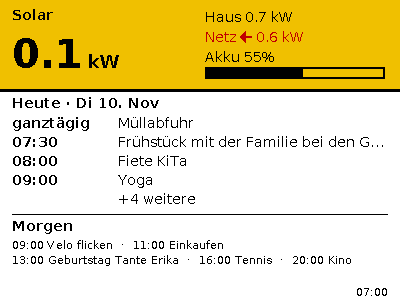
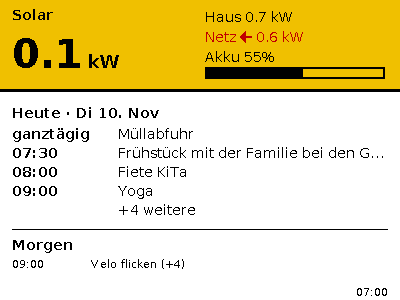
feat(render): tomorrow events one per line, more vertical padding

Changed region(s): [[0.03, 0.33, 0.96, 0.9], [0.75, 0.84, 0.81, 0.9], [0.84, 0.84, 0.87, 0.9]]

diff --git a/lib/core/src/render.cpp b/lib/core/src/render.cpp
@@ -9,6 +9,7 @@ namespace {
 constexpr int kMargin = 12;
 constexpr int kMaxToday = 5;
 constexpr int kBannerH = 92;  // top of the calendar area (24 px warning bar + 68 px compact banner = same)
+constexpr int kCalendarBottom = 282;  // last baseline above the footer (updated time at 296)
 
 // 12x12 arrow; dir 0=right 1=left 2=up 3=down. (x, y) is the top-left.
 void arrow(Canvas& c, int x, int y, int dir, Color col) {
@@ -125,41 +126,45 @@ int drawToday(Canvas& c, const View& v, int y, int maxLines) {
     return y;
 }
 
-// Condensed tomorrow list over up to maxLines Small lines.
-void drawTomorrow(Canvas& c, const View& v, int y, int maxLines, int pitch) {
-    const int maxW = Canvas::W - 2 * kMargin;
+// Tomorrow: one event per line (Small font, time column) while lines fit above
+// `bottom` (last baseline); overflow ends with "+N weitere".
+void drawTomorrow(Canvas& c, const View& v, int y, int bottom, int pitch) {
     if (v.tomorrow.empty()) {
         drawText(c, kMargin, y, Font::Small, "keine Termine", Color::Black);
         return;
     }
-    std::string line;
-    int used = 0;
-    for (size_t i = 0; i < v.tomorrow.size(); i++) {
+    const int titleX = kMargin + 80;
+    const int titleW = Canvas::W - titleX - kMargin;
+    int fit = (bottom - y) / pitch + 1;
+    if (fit < 1) fit = 1;
+    int n = static_cast<int>(v.tomorrow.size());
+    int shown = n <= fit ? n : (fit > 1 ? fit - 1 : 1);
+    bool suffix = shown < n && shown == fit;  // no spare line: append "+N" to the last title
+    for (int i = 0; i < shown; i++) {
         const EventLine& e = v.tomorrow[i];
-        std::string item = e.time == "ganztägig" ? e.title : e.time + " " + e.title;
-        std::string cand = line.empty() ? item : line + "  ·  " + item;
-        if (!line.empty() && textWidth(Font::Small, cand.c_str()) > maxW) {
-            drawText(c, kMargin, y + used * pitch, Font::Small, line.c_str(), Color::Black, maxW);
-            used++;
-            line.clear();
-            cand = item;
-            if (used >= maxLines) return;
-        }
-        line = cand;
+        std::string title = e.title;
+        if (suffix && i == shown - 1) title += " (+" + std::to_string(n - shown) + ")";
+        drawText(c, kMargin, y, Font::Small, e.time.c_str(), Color::Black, titleX - kMargin - 6);
+        drawText(c, titleX, y, Font::Small, title.c_str(), Color::Black, titleW);
+        y += pitch;
     }
-    if (!line.empty() && used < maxLines) drawText(c, kMargin, y + used * pitch, Font::Small, line.c_str(), Color::Black, maxW);
+    if (shown < n && !suffix) {
+        char b[24];
+        snprintf(b, sizeof b, "+%d weitere", n - shown);
+        drawText(c, titleX, y, Font::Small, b, Color::Black);
+    }
 }
 
-void drawCalendar(Canvas& c, const View& v, int top, int maxToday, int tomorrowLines) {
-    int hb = top + 16;
+void drawCalendar(Canvas& c, const View& v, int top) {
+    int hb = top + 26;  // 10 px more air below the banner
     std::string head = v.todayLabel;
     if (!v.headerDate.empty()) head += " · " + v.headerDate;
     drawText(c, kMargin, hb, Font::BodyBold, head.c_str(), Color::Black);
-    int y = drawToday(c, v, hb + 20, maxToday);
-    int sep = y - 19 + 10;
+    int y = drawToday(c, v, hb + 21, kMaxToday);
+    int sep = y - 19 + 14;
     c.hline(kMargin, sep, Canvas::W - 2 * kMargin, Color::Black);
-    drawText(c, kMargin, sep + 17, Font::BodyBold, v.tomorrowLabel.c_str(), Color::Black);
-    drawTomorrow(c, v, sep + 35, tomorrowLines, 15);
+    drawText(c, kMargin, sep + 21, Font::BodyBold, v.tomorrowLabel.c_str(), Color::Black);
+    drawTomorrow(c, v, sep + 39, kCalendarBottom, 15);
 }
 }  // namespace
 
@@ -177,7 +182,7 @@ void renderDay(Canvas& c, const View& v) {
         top = 24;
     }
     drawBanner(c, v, top, v.warnPanelBattery);
-    drawCalendar(c, v, kBannerH, kMaxToday, 3);
+    drawCalendar(c, v, kBannerH);
     if (v.dataStale)
         put(c, kMargin, 296, Font::Small, "Daten veraltet · " + v.staleText, Color::Red, 250);
     int w = textWidth(Font::Small, v.updatedAt.c_str());
@@ -198,7 +203,7 @@ void renderNight(Canvas& c, const View& v) {
     int mid = top + (bh - 3) / 2;
     drawText(c, kMargin, mid + 14, Font::Huge, "Gute Nacht", Color::Black, 270);
     cat::draw(c, Canvas::W - kMargin - cat::W, mid - cat::H / 2);
-    drawCalendar(c, v, kBannerH, kMaxToday, 3);
+    drawCalendar(c, v, kBannerH);
 }
 
 void renderChargeMe(Canvas& c) {

diff --git a/test/test_render/test_main.cpp b/test/test_render/test_main.cpp
@@ -31,6 +31,39 @@ static int count(const Canvas& c, Color col) {
     return n;
 }
 
+// Lowest row with black pixels left of the footer timestamp (x < 300).
+static int lowestInk(const Canvas& c) {
+    for (int y = Canvas::H - 1; y >= 0; y--)
+        for (int x = 0; x < 300; x++)
+            if (c.get(x, y) == Color::Black) return y;
+    return -1;
+}
+
+void test_tomorrow_events_stack_vertically() {
+    static uint8_t buf[Canvas::kBytes];
+    Canvas c(buf);
+    View one = dayView();
+    one.tomorrow = {{"07:00", "KiTa geschlossen"}};
+    renderDay(c, one);
+    int y1 = lowestInk(c);
+    View two = one;
+    two.tomorrow.push_back({"13:30", "Putzfrau"});
+    renderDay(c, two);
+    int y2 = lowestInk(c);
+    TEST_ASSERT_GREATER_OR_EQUAL(12, y2 - y1);  // second event on its own line
+    TEST_ASSERT_LESS_THAN(286, y2);             // stays clear of the footer
+}
+
+void test_tomorrow_overflow_stays_above_footer() {
+    static uint8_t buf[Canvas::kBytes];
+    Canvas c(buf);
+    View v = dayView();
+    v.today = {{"08:00", "a"}, {"09:00", "b"}, {"10:00", "c"}, {"11:00", "d"}, {"12:00", "e"}};
+    for (int i = 0; i < 8; i++) v.tomorrow.push_back({"09:00", "Termin"});
+    renderDay(c, v);
+    TEST_ASSERT_LESS_THAN(286, lowestInk(c));
+}
+
 void test_day_banner_yellow() {
     static uint8_t buf[Canvas::kBytes];
     Canvas c(buf);
@@ -111,5 +144,7 @@ int main() {
     RUN_TEST(test_night_panel_warning_keeps_banner);
     RUN_TEST(test_overflow);
     RUN_TEST(test_charge_me_mostly_red_text);
+    RUN_TEST(test_tomorrow_events_stack_vertically);
+    RUN_TEST(test_tomorrow_overflow_stays_above_footer);
     return UNITY_END();
 }

diff --git a/docs/architecture.md b/docs/architecture.md
@@ -154,7 +154,7 @@ Battery arrow: `battery_w ≥ 50` "↑", `≤ −50` "↓", otherwise none.
 
 ## Screens (`lib/core/src/render.h`)
 
-- `renderDay`: yellow solar banner (92 px, 3 px black bottom border): "Solar", Huge kW number, house/grid/battery (arrows drawn as shapes, since the fonts lack "→←↑↓") and a SoC bar. Below: today header, up to 5 event lines (Body, 19 px pitch), tomorrow condensed on up to 3 Small lines, update time bottom-right. With `warnPanelBattery` a 24 px red bar ("Panel-Akku schwach - bitte laden", ASCII hyphen because the font lacks an en dash) sits on top and the banner shrinks to 68 px. Red text: grid import, home battery < 15 %, stale solar "Stand", stale data footer. Missing solar shows "keine Daten" in the banner.
+- `renderDay`: yellow solar banner (92 px, 3 px black bottom border): "Solar", Huge kW number, house/grid/battery (arrows drawn as shapes, since the fonts lack "→←↑↓") and a SoC bar. Below (10 px gap): today header, up to 5 event lines (Body, 19 px pitch), a divider with 14 px air above and below, then tomorrow one event per line (Small, 15 px pitch, time column + title) as far as space allows above the footer (last baseline 282); overflow ends with "+N weitere", or "(+N)" appended to the only line when just one fits. Update time bottom-right. With `warnPanelBattery` a 24 px red bar ("Panel-Akku schwach - bitte laden", ASCII hyphen because the font lacks an en dash) sits on top and the banner shrinks to 68 px. Red text: grid import, home battery < 15 %, stale solar "Stand", stale data footer. Missing solar shows "keine Daten" in the banner.
 - Overflow: more than 5 events today → 4 events plus "+N weitere" (`visibleTodayLines` returns 4).
 - `renderNight`: calendar (shifted labels) plus a top "Gute Nacht" banner (yellow, same 92 px / 68 px compact geometry as the day banner, red warning bar above when the panel battery is low) with a sleeping cat (`cat_bitmap.h`, drawn with primitives, white body with black outline). `renderChargeMe`: red frame and "Akku leer / bitte laden". `renderMaintenance`: IP, version, WLAN, update, battery, last fetch.
 - Simulator: `pio run -e sim && .pio/build/sim/program tools/sim/scenarios docs/screens` renders each scenario JSON (`screen`, `now`, `panelBatteryPct`, `lastSuccess`, `kitchen` body, `maint`) to a PNG with a built-in encoder.
